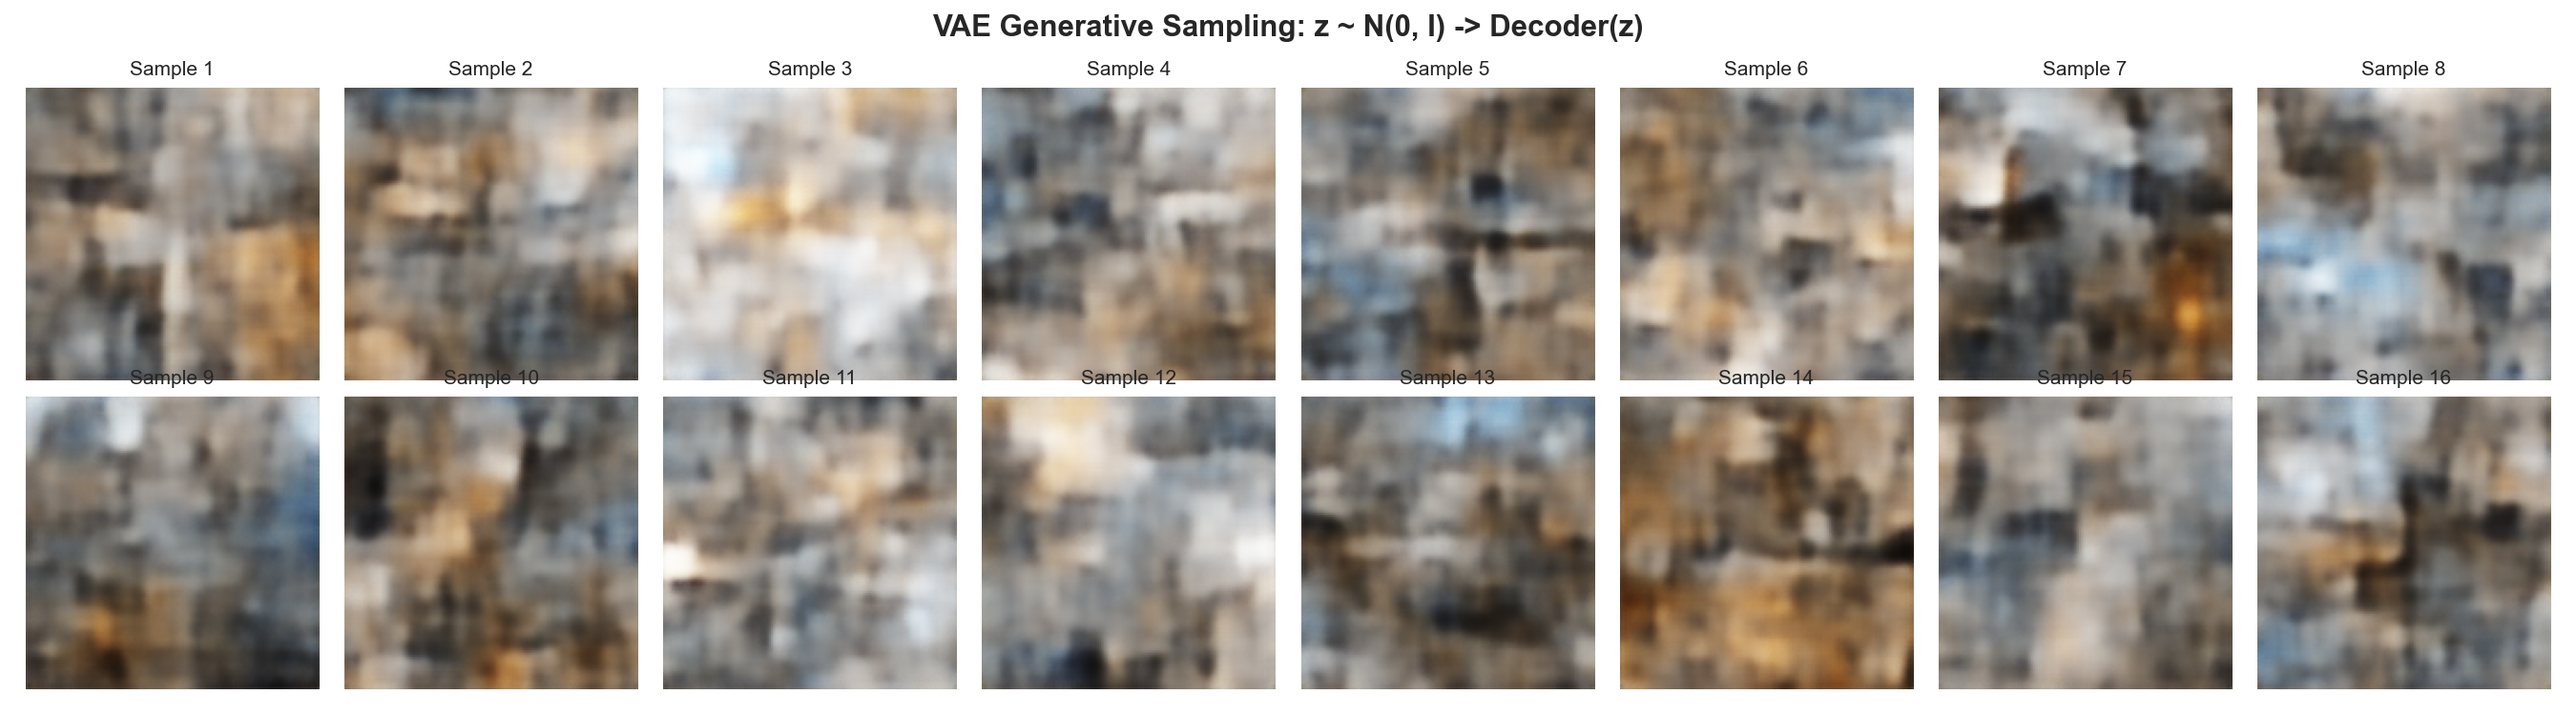
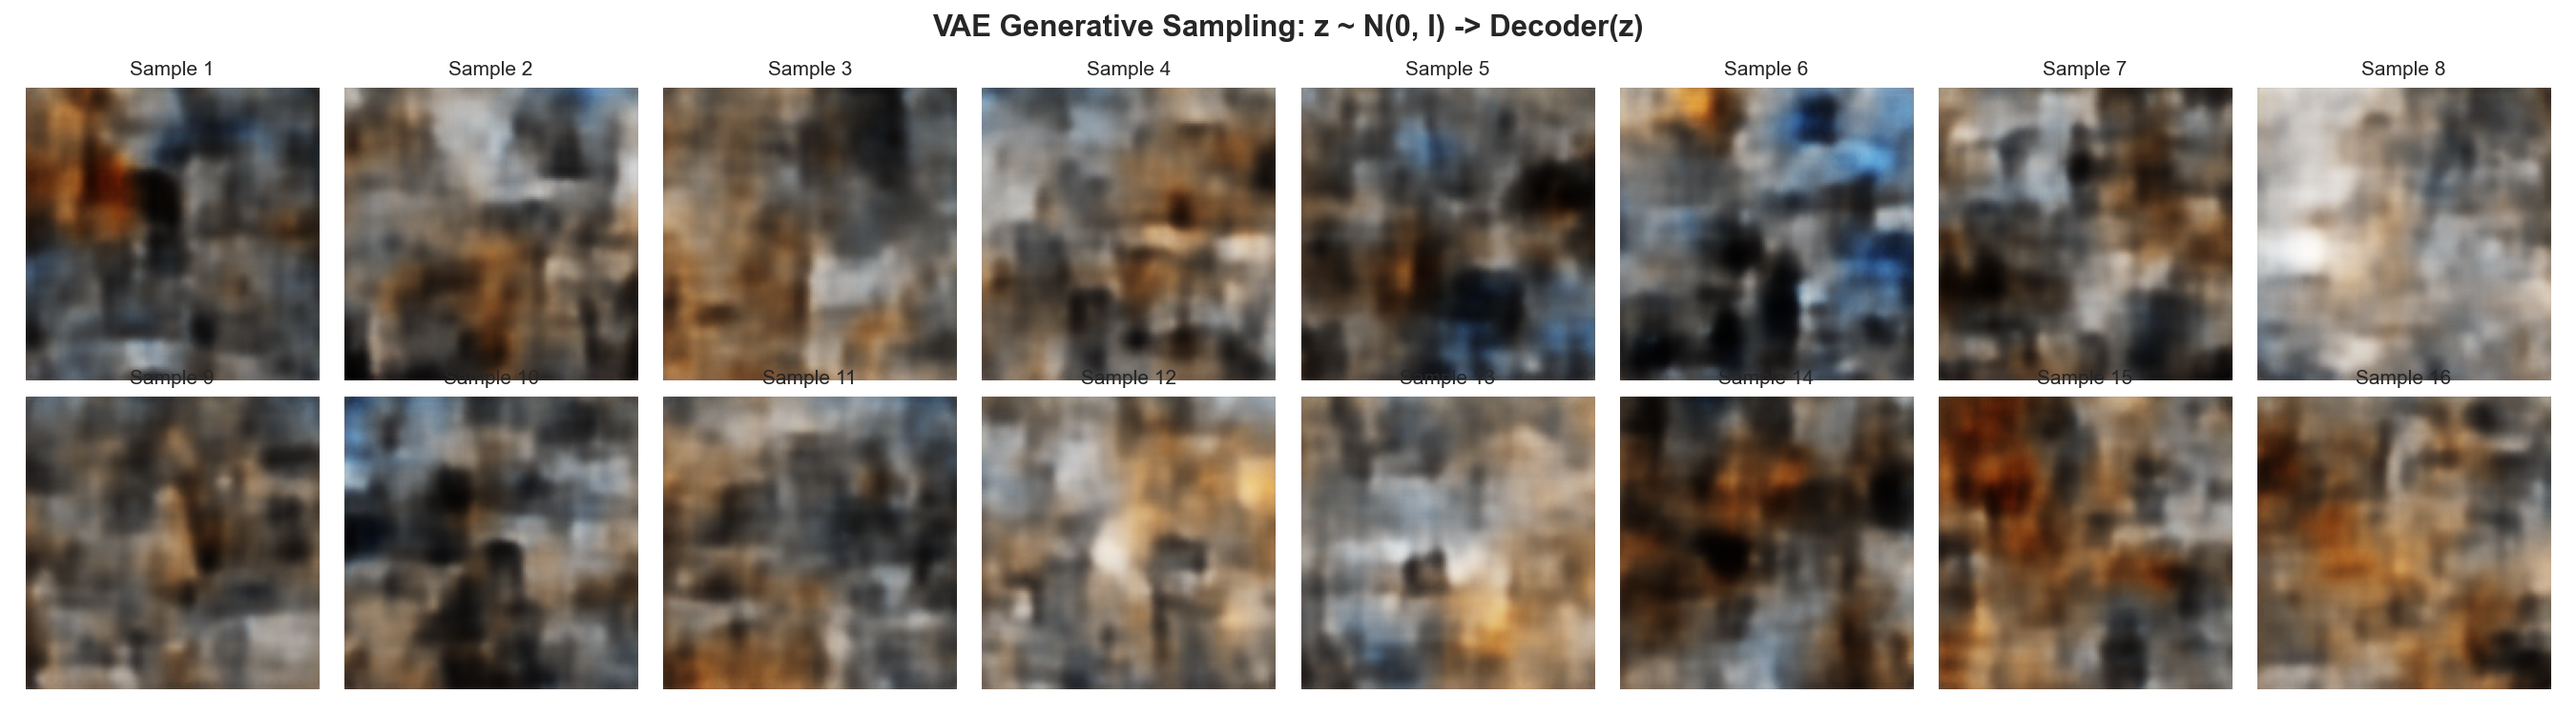
feat: implement convolutional VAE model and training pipeline for construction site digital twins

diff --git a/src/models/vae.py b/src/models/vae.py
@@ -147,36 +147,63 @@ class ConvVAE(nn.Module):
         return recon, mu, logvar
 
     @staticmethod
+    def ssim_loss(img1, img2, window_size=7):
+        """
+        Differentiable Structural Similarity (SSIM) Loss.
+        Computes 1.0 - SSIM across local image patches to preserve fine geometric edges & textures.
+        """
+        channels = img1.size(1)
+        # 1D triangular/gaussian kernel approximation
+        kernel_1d = torch.tensor([0.06, 0.12, 0.20, 0.24, 0.20, 0.12, 0.06], device=img1.device, dtype=img1.dtype)
+        kernel_1d = kernel_1d / kernel_1d.sum()
+        kernel_2d = (kernel_1d.unsqueeze(1) @ kernel_1d.unsqueeze(0)).unsqueeze(0).unsqueeze(0)
+        kernel = kernel_2d.repeat(channels, 1, 1, 1)
+        pad = window_size // 2
+
+        mu1 = F.conv2d(img1, kernel, padding=pad, groups=channels)
+        mu2 = F.conv2d(img2, kernel, padding=pad, groups=channels)
+
+        mu1_sq = mu1.pow(2)
+        mu2_sq = mu2.pow(2)
+        mu1_mu2 = mu1 * mu2
+
+        sigma1_sq = F.conv2d(img1 * img1, kernel, padding=pad, groups=channels) - mu1_sq
+        sigma2_sq = F.conv2d(img2 * img2, kernel, padding=pad, groups=channels) - mu2_sq
+        sigma12   = F.conv2d(img1 * img2, kernel, padding=pad, groups=channels) - mu1_mu2
+
+        c1 = 0.01 ** 2
+        c2 = 0.03 ** 2
+
+        ssim_map = ((2 * mu1_mu2 + c1) * (2 * sigma12 + c2)) / ((mu1_sq + mu2_sq + c1) * (sigma1_sq + sigma2_sq + c2) + 1e-7)
+        return 1.0 - ssim_map.mean()
+
+    @staticmethod
     def loss_function(recon_x, x, mu, logvar, beta=1.0, normalize_pixels=True, free_bits=0.0):
         """
-        Calibrated Evidence Lower Bound (ELBO) Loss with Beta-VAE formulation and KL Divergence balancing.
+        Calibrated Evidence Lower Bound (ELBO) Loss with Structural SSIM + L1/MSE formulation.
 
         Formulation:
             L_total = L_recon + beta * D_KL(q(z|x) || p(z))
-
-        When normalize_pixels=True (Recommended for training stability & sharp reconstructions):
-            - L_recon is computed as Mean Squared Error per pixel [0, 1].
-            - D_KL is normalized by image pixel count (B * C * H * W) so that the 256-d latent
-              regularization does not dominate the 49,152 image pixels (preventing blurry reconstructions).
-            - free_bits: Optional minimum threshold per latent dimension to prevent posterior collapse.
+            L_recon = 0.5 * L_ssim + 0.3 * L1 + 0.2 * MSE
 
         Args:
             recon_x: Reconstructed tensor [B, C, H, W]
             x: Ground truth input tensor [B, C, H, W]
             mu: Mean vector [B, latent_dim]
             logvar: Log-variance vector [B, latent_dim]
-            beta: Trade-off parameter (beta > 1 enforces disentanglement; beta ~ 0.0005-0.005 balances pixel MSE).
+            beta: Trade-off parameter for KL divergence.
             normalize_pixels: Whether to balance loss scales per pixel for high reconstruction accuracy.
             free_bits: Minimum bits per latent dimension.
         """
         batch_size = x.size(0)
         num_pixels = x.size(1) * x.size(2) * x.size(3)
 
-        # 1. Reconstruction Loss (L1 preserves sharp edges; MSE maintains global tonal balance)
+        # 1. Multi-Component Reconstruction Loss (SSIM structural + L1 sharp edge + MSE stability)
         if normalize_pixels:
+            loss_ssim = ConvVAE.ssim_loss(recon_x, x)
             l1_loss = F.l1_loss(recon_x, x, reduction='mean')
             mse_loss = F.mse_loss(recon_x, x, reduction='mean')
-            recon_loss = l1_loss + 0.5 * mse_loss
+            recon_loss = 0.5 * loss_ssim + 0.3 * l1_loss + 0.2 * mse_loss
         else:
             recon_loss = F.mse_loss(recon_x, x, reduction='sum') / batch_size
 

diff --git a/src/train_vae.py b/src/train_vae.py
@@ -225,7 +225,7 @@ def train(epochs=25, batch_size=64, lr=3e-4, warm_start=True, device="cpu"):
     try:
         # A. Loss Curve
         plt.figure(figsize=(10, 4.5))
-        plt.plot(history["train_loss"], label="Train Loss (L1 + 0.5*MSE)", color="#00f0ff", lw=2)
+        plt.plot(history["train_loss"], label="Train Loss (Structural SSIM + L1/MSE)", color="#00f0ff", lw=2)
         plt.plot(history["val_loss"], label="Val Loss", color="#a855f7", lw=2, linestyle="--")
         plt.title("Calibrated VAE Training Loss Curve", fontsize=13, fontweight="bold")
         plt.xlabel("Epoch")
